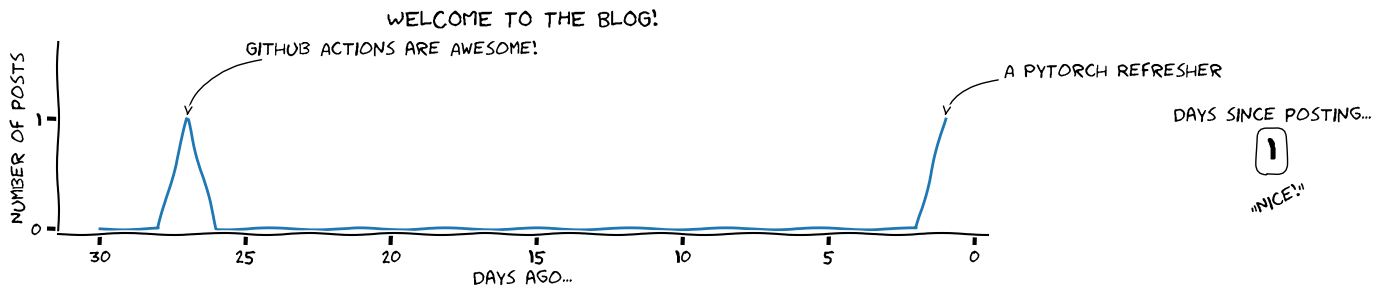
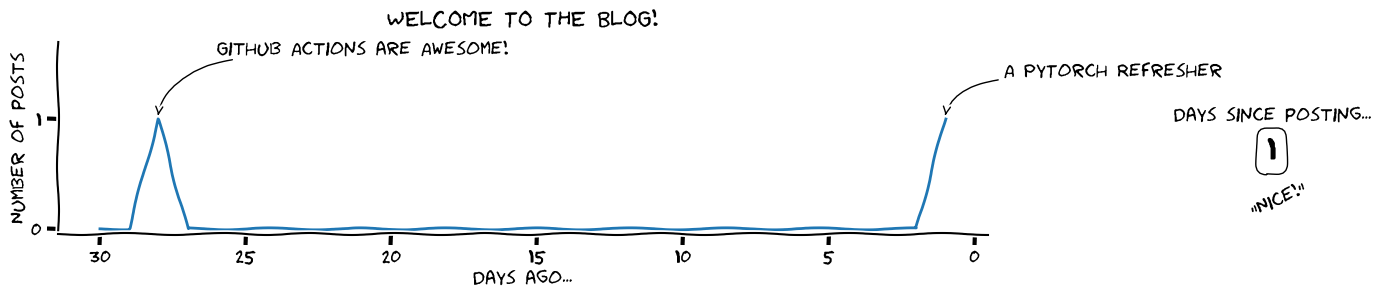
deploy: cf543d559f055e5e204bb33293c430c46682aed0

Changed region(s): [[0.0934, 0.3966, 0.1557, 0.7932], [0.1245, 0.122, 0.4048, 0.3051]]

diff --git a/pytorch/deep-learning/neural-nets/2021/04/02/_04_02_Pytorch_refresher.html b/pytorch/deep-learning/neural-nets/2021/04/02/_04_02_Pytorch_refresher.html
@@ -10,14 +10,14 @@
 <meta property="og:locale" content="en_US" />
 <meta name="description" content="Everything to get up and running with PyTorch." />
 <meta property="og:description" content="Everything to get up and running with PyTorch." />
-<link rel="canonical" href="https://jc639.github.io/blog/pytorch/deep-learning/neural-nets/2021/04/01/_04_02_Pytorch_refresher.html" />
-<meta property="og:url" content="https://jc639.github.io/blog/pytorch/deep-learning/neural-nets/2021/04/01/_04_02_Pytorch_refresher.html" />
+<link rel="canonical" href="https://jc639.github.io/blog/pytorch/deep-learning/neural-nets/2021/04/02/_04_02_Pytorch_refresher.html" />
+<meta property="og:url" content="https://jc639.github.io/blog/pytorch/deep-learning/neural-nets/2021/04/02/_04_02_Pytorch_refresher.html" />
 <meta property="og:site_name" content="JC’s Blog" />
 <meta property="og:image" content="https://jc639.github.io/blog/images/torch.jpg" />
 <meta property="og:type" content="article" />
-<meta property="article:published_time" content="2021-04-01T00:00:00-05:00" />
+<meta property="article:published_time" content="2021-04-02T00:00:00-05:00" />
 <script type="application/ld+json">
-{"url":"https://jc639.github.io/blog/pytorch/deep-learning/neural-nets/2021/04/01/_04_02_Pytorch_refresher.html","@type":"BlogPosting","headline":"A PyTorch Refresher","dateModified":"2021-04-01T00:00:00-05:00","datePublished":"2021-04-01T00:00:00-05:00","image":"https://jc639.github.io/blog/images/torch.jpg","mainEntityOfPage":{"@type":"WebPage","@id":"https://jc639.github.io/blog/pytorch/deep-learning/neural-nets/2021/04/01/_04_02_Pytorch_refresher.html"},"description":"Everything to get up and running with PyTorch.","@context":"https://schema.org"}</script>
+{"url":"https://jc639.github.io/blog/pytorch/deep-learning/neural-nets/2021/04/02/_04_02_Pytorch_refresher.html","@type":"BlogPosting","headline":"A PyTorch Refresher","dateModified":"2021-04-02T00:00:00-05:00","datePublished":"2021-04-02T00:00:00-05:00","image":"https://jc639.github.io/blog/images/torch.jpg","mainEntityOfPage":{"@type":"WebPage","@id":"https://jc639.github.io/blog/pytorch/deep-learning/neural-nets/2021/04/02/_04_02_Pytorch_refresher.html"},"description":"Everything to get up and running with PyTorch.","@context":"https://schema.org"}</script>
 <!-- End Jekyll SEO tag -->
 <link rel="stylesheet" href="/blog/assets/css/style.css"><link type="application/atom+xml" rel="alternate" href="https://jc639.github.io/blog/feed.xml" title="JC's Blog" /><!-- the google_analytics_id gets auto inserted from the config file -->
 
@@ -100,8 +100,8 @@ window.onload = wrap_img;
         <article class="post h-entry" itemscope itemtype="http://schema.org/BlogPosting">
 
   <header class="post-header">
-    <h1 class="post-title p-name" itemprop="name headline">A PyTorch Refresher</h1><p class="page-description">Everything to get up and running with PyTorch.</p><p class="post-meta post-meta-title"><time class="dt-published" datetime="2021-04-01T00:00:00-05:00" itemprop="datePublished">
-        Apr 1, 2021
+    <h1 class="post-title p-name" itemprop="name headline">A PyTorch Refresher</h1><p class="page-description">Everything to get up and running with PyTorch.</p><p class="post-meta post-meta-title"><time class="dt-published" datetime="2021-04-02T00:00:00-05:00" itemprop="datePublished">
+        Apr 2, 2021
       </time>
        • <span class="read-time" title="Estimated read time">
     
@@ -12313,7 +12313,7 @@ Epoch 19: Train loss=0.324 | Val Loss=0.517 | Val Acc=83.618
         theme="github-light"
         crossorigin="anonymous"
         async>
-</script><a class="u-url" href="/blog/pytorch/deep-learning/neural-nets/2021/04/01/_04_02_Pytorch_refresher.html" hidden></a>
+</script><a class="u-url" href="/blog/pytorch/deep-learning/neural-nets/2021/04/02/_04_02_Pytorch_refresher.html" hidden></a>
 </article>
       </div>
     </main><footer class="site-footer h-card">

diff --git a/categories/index.html b/categories/index.html
@@ -142,7 +142,7 @@ window.onload = wrap_img;
       <a name="deep-learning"></a>
       
         <article class="archive-item">
-          <p class="post-meta post-meta-title"><a class="page-meta" href="/blog/pytorch/deep-learning/neural-nets/2021/04/01/_04_02_Pytorch_refresher.html">A PyTorch Refresher</a>  • Apr 1, 2021</p>
+          <p class="post-meta post-meta-title"><a class="page-meta" href="/blog/pytorch/deep-learning/neural-nets/2021/04/02/_04_02_Pytorch_refresher.html">A PyTorch Refresher</a>  • Apr 2, 2021</p>
         </article>
         
       
@@ -160,7 +160,7 @@ window.onload = wrap_img;
       <a name="neural-nets"></a>
       
         <article class="archive-item">
-          <p class="post-meta post-meta-title"><a class="page-meta" href="/blog/pytorch/deep-learning/neural-nets/2021/04/01/_04_02_Pytorch_refresher.html">A PyTorch Refresher</a>  • Apr 1, 2021</p>
+          <p class="post-meta post-meta-title"><a class="page-meta" href="/blog/pytorch/deep-learning/neural-nets/2021/04/02/_04_02_Pytorch_refresher.html">A PyTorch Refresher</a>  • Apr 2, 2021</p>
         </article>
         
       
@@ -169,7 +169,7 @@ window.onload = wrap_img;
       <a name="pytorch"></a>
       
         <article class="archive-item">
-          <p class="post-meta post-meta-title"><a class="page-meta" href="/blog/pytorch/deep-learning/neural-nets/2021/04/01/_04_02_Pytorch_refresher.html">A PyTorch Refresher</a>  • Apr 1, 2021</p>
+          <p class="post-meta post-meta-title"><a class="page-meta" href="/blog/pytorch/deep-learning/neural-nets/2021/04/02/_04_02_Pytorch_refresher.html">A PyTorch Refresher</a>  • Apr 2, 2021</p>
         </article>
         
       

diff --git a/index.html b/index.html
@@ -124,12 +124,12 @@ window.onload = wrap_img;
         <img class="image-preview " src="/blog/images/torch.jpg" />
       </div><div class="col-8 d-table-cell p-3">
         <h3>
-          <a class="post-link" href="/blog/pytorch/deep-learning/neural-nets/2021/04/01/_04_02_Pytorch_refresher.html">
+          <a class="post-link" href="/blog/pytorch/deep-learning/neural-nets/2021/04/02/_04_02_Pytorch_refresher.html">
             A PyTorch Refresher
           </a>
         </h3>
         <p class="post-meta-description">Everything to get up and running with PyTorch.</p>
-          <p class="post-meta">Apr 1, 2021</p>
+          <p class="post-meta">Apr 2, 2021</p>
       </div>
   </div></li><li><div class="Box box-shadow-medium rounded-1 col-12"><div class="col-4 d-table-cell p-3 v-align-middle">
         <img class="image-preview " src="/blog/images/header.png" />
